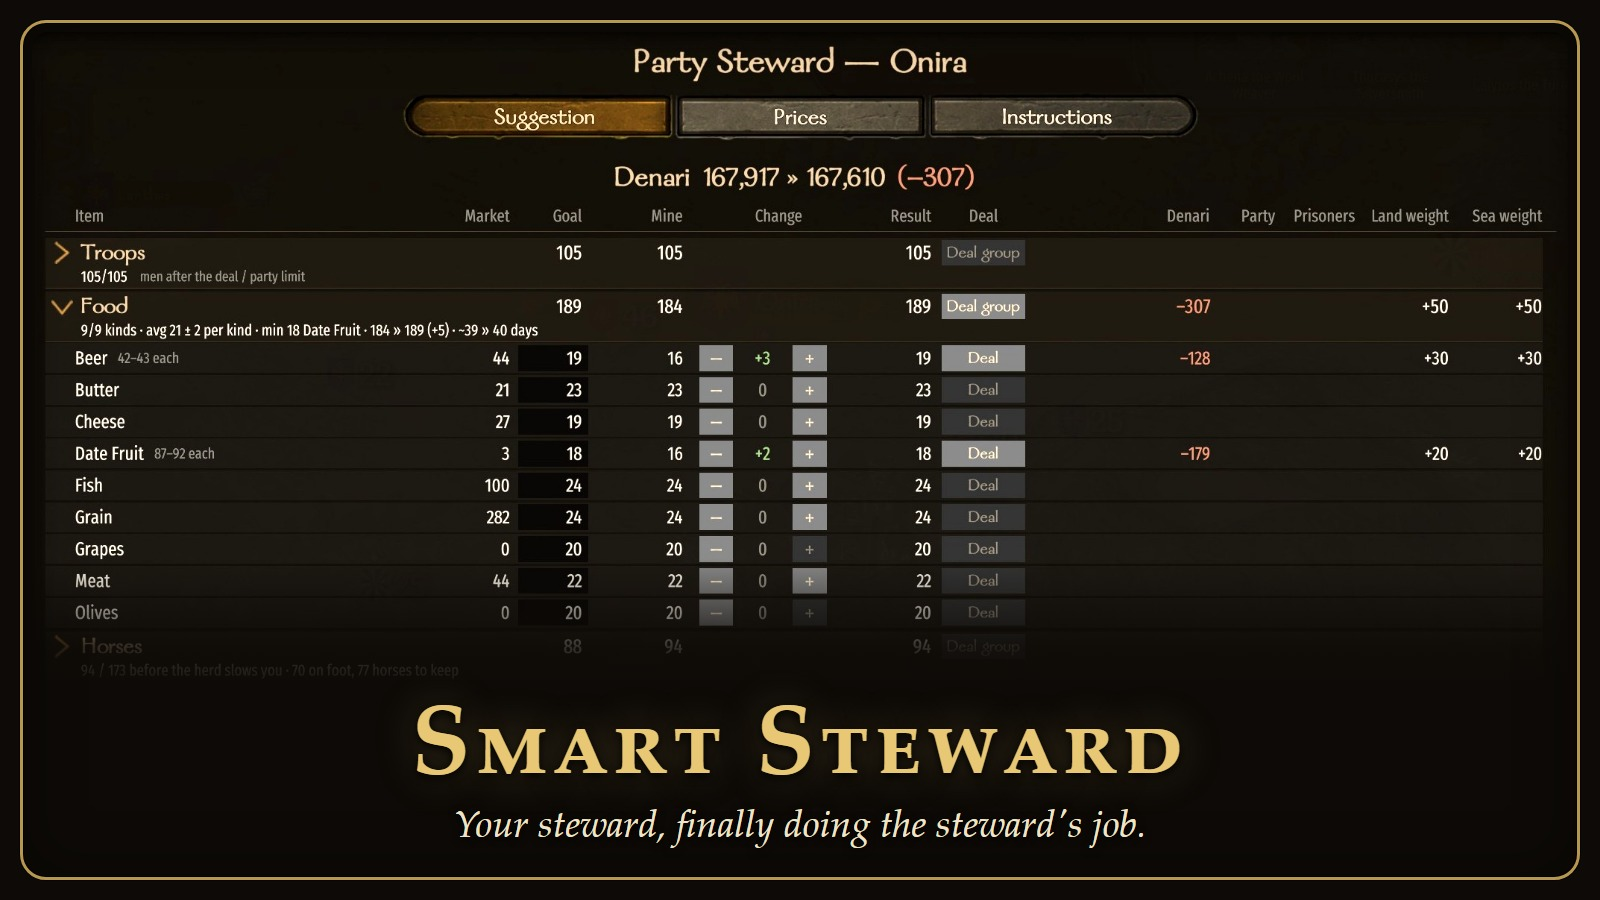
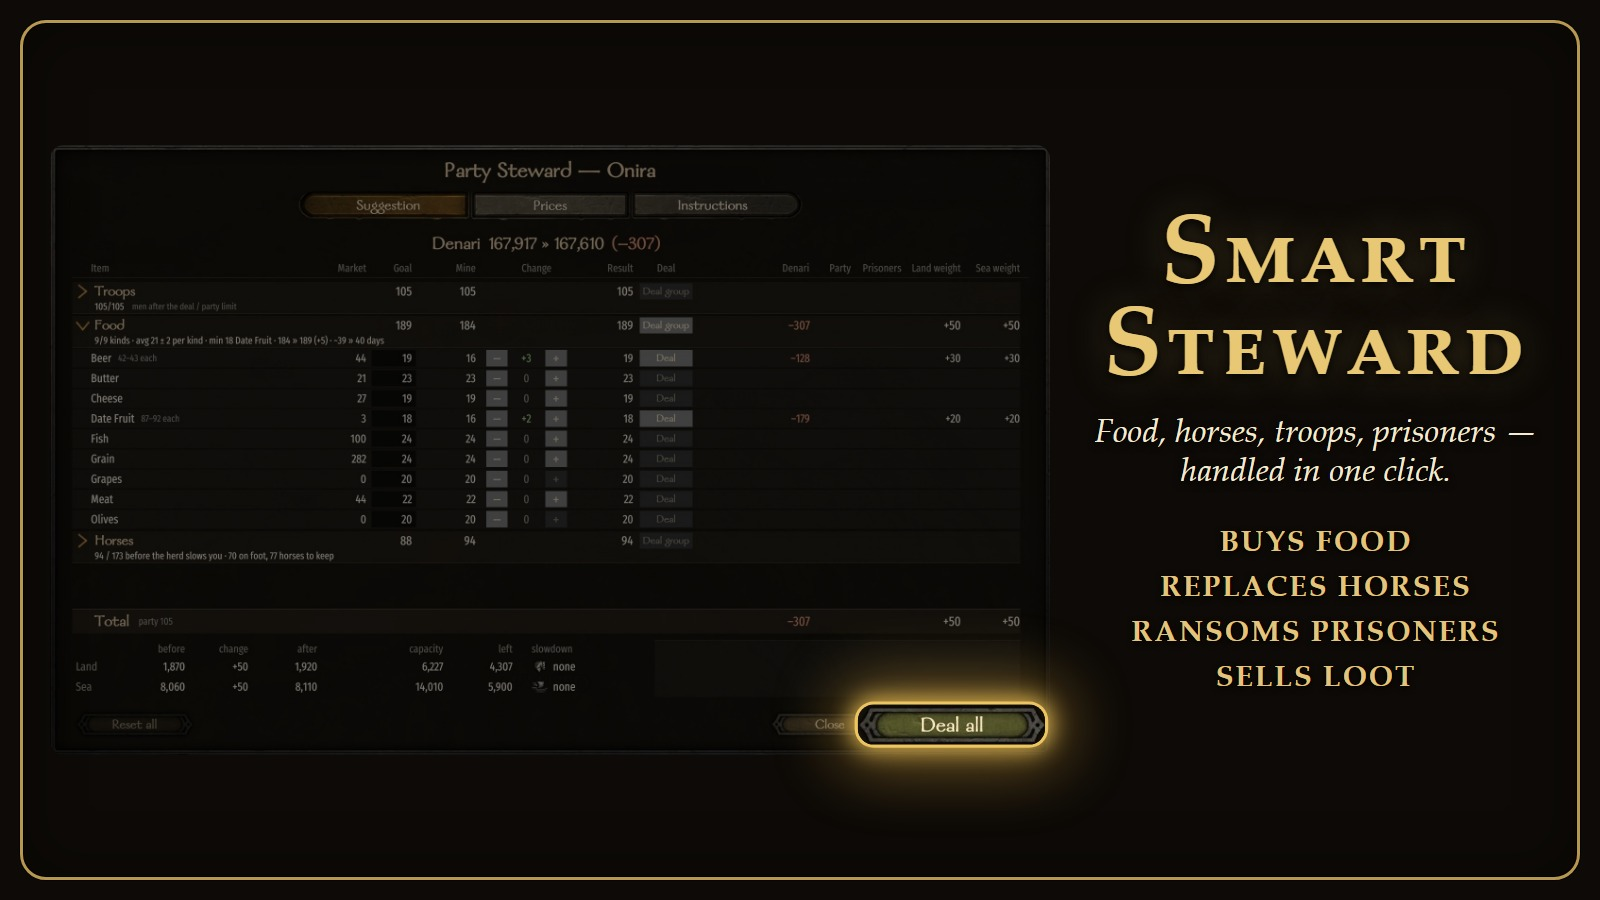
Release images and first lines say the steward AUTOMATES the chores
Thumbnail + cover: the whole real window dimmed, its real Deal all button undimmed
in a gold glow, tagline "Food, horses, troops, prisoners - handled in one click.",
verbs strip BUYS FOOD / REPLACES HORSES / RANSOMS PRISONERS / SELLS LOOT.
make_thumbnail.py --variant v2 adds a before -> after line (example figures).
README, Steam description (7,238 bytes) and WorkshopCreate open with
"Automates your party's logistics...".

diff --git a/tools/preview_thumbnail.html b/tools/preview_thumbnail.html
@@ -1,10 +1,11 @@
 <!DOCTYPE html>
 <!--
-  The Steam Workshop preview (1024 x 1024), in the house style of the sibling mods (TrainingBattles, Better Skirmisher
-  Separation): gold frame, Palatino small caps title over a dark fade, one tagline. The art is the REAL Party Steward
-  window (Screenshots\01_suggestion_food.jpg, cropped by the script to title, tabs, Denari and the Food rows).
-  Rendered by:  python tools\make_thumbnail.py      (writes Screenshots\preview_thumbnail.jpg, under Steam's 1 MB)
-  ART_IMG is replaced by the script with the cropped panel's file URI.
+  The Steam Workshop preview (1024 x 1024), in the house style of the sibling mods (gold frame, Palatino small caps
+  title over a dark fade). The art is the WHOLE real Party Steward window (Screenshots\01_suggestion_food.jpg), dimmed
+  so the words carry the message; its real "Deal all" button is shown again undimmed, a little larger, in a gold glow
+  (the .deal box = the button's own pixels, placed by the script) so the eye lands on "one click".
+  Rendered by:  python tools\make_thumbnail.py [--variant v2]   (v2 adds the .proof before -> after line)
+  The script replaces ART_IMG (the art's file URI), VARIANT (v1/v2) and the DEAL_* pixel values.
 -->
 <html>
 <head>
@@ -17,42 +18,54 @@
     font-family: 'Palatino Linotype', 'Book Antiqua', Georgia, serif;
   }
   .art {
-    position: absolute; left: 34px; top: 34px; width: 956px; height: 618px; border-radius: 16px 16px 0 0;
-    background: url('ART_IMG') center top / 956px 618px no-repeat;
-    filter: brightness(1.12) contrast(1.06);
+    position: absolute; left: 34px; top: 40px; width: 956px; height: 583px; border-radius: 16px;
+    background: url('ART_IMG') 0 0 / 956px 583px no-repeat;
+    filter: brightness(0.5) saturate(0.85);
   }
   .shade {
     position: absolute; inset: 0;
     background:
-      radial-gradient(ellipse 120% 90% at 50% 30%, rgba(0,0,0,0) 50%, rgba(13,10,7,0.5) 85%, rgba(13,10,7,0.85) 100%),
-      linear-gradient(to bottom, rgba(0,0,0,0) 0%, rgba(0,0,0,0) 49%, rgba(13,10,7,0.8) 53%, rgba(13,10,7,1) 56%);
+      radial-gradient(ellipse 120% 90% at 50% 30%, rgba(0,0,0,0) 50%, rgba(13,10,7,0.45) 85%, rgba(13,10,7,0.8) 100%),
+      linear-gradient(to bottom, rgba(0,0,0,0) 0%, rgba(0,0,0,0) 54%, rgba(13,10,7,0.7) 60%, rgba(13,10,7,1) 64%);
+  }
+  .deal {
+    position: absolute; left: DEAL_LEFTpx; top: DEAL_TOPpx; width: DEAL_Wpx; height: DEAL_Hpx;
+    background: url('ART_IMG') -DEAL_BXpx -DEAL_BYpx / 956px 583px no-repeat;
+    transform: scale(1.7); transform-origin: 70% 50%; border-radius: 10px;
+    box-shadow: 0 0 0 2px rgba(240, 200, 100, 0.95), 0 0 14px 4px rgba(240, 196, 90, 0.85), 0 0 40px 14px rgba(232, 180, 70, 0.45);
   }
   .frame {
     position: absolute; inset: 22px;
     border: 3px solid rgba(214, 178, 94, 0.85); border-radius: 26px;
     box-shadow: 0 0 0 1px rgba(0,0,0,0.6), inset 0 0 0 1px rgba(0,0,0,0.6), inset 0 0 60px rgba(0,0,0,0.35);
   }
-  .titleblock { position: absolute; left: 0; right: 0; bottom: 64px; text-align: center; }
-  .ornament { color: #d6b25e; font-size: 26px; letter-spacing: 14px; text-shadow: 0 2px 6px rgba(0,0,0,0.9); margin-bottom: 6px; }
+  .titleblock { position: absolute; left: 40px; right: 40px; bottom: 58px; text-align: center; }
   h1 {
-    color: #e8c874; font-size: 112px; font-weight: 600; letter-spacing: 5px; font-variant: small-caps; line-height: 1;
+    color: #e8c874; font-size: 104px; font-weight: 600; letter-spacing: 5px; font-variant: small-caps; line-height: 1;
     text-shadow: 0 3px 10px rgba(0,0,0,0.95), 0 0 45px rgba(232, 200, 116, 0.28);
   }
-  .tagline { margin-top: 16px; color: #f0e4c8; font-size: 40px; font-style: italic; text-shadow: 0 2px 8px rgba(0,0,0,0.95); }
-  .features { margin-top: 18px; color: #cdb27a; font-size: 28px; font-variant: small-caps; letter-spacing: 2px; text-shadow: 0 2px 6px rgba(0,0,0,0.95); }
-  .features .dot { color: #8a7448; padding: 0 9px; }
+  .tagline { margin-top: 14px; color: #f4ead2; font-size: 40px; font-style: italic; line-height: 1.15; text-shadow: 0 2px 8px rgba(0,0,0,0.95); }
+  .verbs { margin-top: 20px; color: #e2c47e; font-size: 34px; font-weight: 600; letter-spacing: 2px; line-height: 1.3; text-shadow: 0 2px 6px rgba(0,0,0,0.95); }
+  .verbs .dot { color: #8a7448; padding: 0 12px; }
+  .proof { display: none; margin-top: 16px; color: #cfe0a8; font-size: 30px; line-height: 1.2; text-shadow: 0 2px 6px rgba(0,0,0,0.95); }
+  .proof .arrow { color: #e8c874; padding: 0 6px; }
+  .proof .dot { color: #8a7448; padding: 0 12px; }
+  .v2 .proof { display: block; }
+  .v2 .titleblock { bottom: 46px; }
+  .v2 h1 { font-size: 96px; }
 </style>
 </head>
-<body>
+<body class="VARIANT">
   <div class="canvas">
     <div class="art"></div>
     <div class="shade"></div>
+    <div class="deal"></div>
     <div class="frame"></div>
     <div class="titleblock">
-      <div class="ornament">✦ ✦ ✦</div>
       <h1>Smart Steward</h1>
-      <div class="tagline">Your steward, finally doing the steward's job.</div>
-      <div class="features">food <span class="dot">·</span> horses <span class="dot">·</span> troops <span class="dot">·</span> prisoners <span class="dot">·</span> loot</div>
+      <div class="tagline">Food, horses, troops, prisoners —<br>handled in one click.</div>
+      <div class="verbs">BUYS FOOD <span class="dot">·</span> REPLACES HORSES<br>RANSOMS PRISONERS <span class="dot">·</span> SELLS LOOT</div>
+      <div class="proof">5 days of food <span class="arrow">→</span> 40 days <span class="dot">·</span> 12 prisoners <span class="arrow">→</span> +3,400 denari</div>
     </div>
   </div>
 </body>

diff --git a/tools/cover.html b/tools/cover.html
@@ -1,9 +1,9 @@
 <!DOCTYPE html>
 <!--
-  The README cover (1600 x 900): the real Party Steward window on top (Screenshots\01_suggestion_food.jpg, cropped by
-  the script from the title down to the Horses line), then the title block in the thumbnail's style - gold frame,
-  Palatino small caps, one tagline. Rendered by:  python tools\make_thumbnail.py  (writes Screenshots\cover.jpg)
-  ART_IMG is replaced by the script with the cropped panel's file URI.
+  The README cover (1600 x 900): the WHOLE real Party Steward window on the left (Screenshots\01_suggestion_food.jpg),
+  dimmed, with its real "Deal all" button shown again undimmed in a gold glow; the words on the right in the
+  thumbnail's style (gold frame, Palatino small caps). Rendered by:  python tools\make_thumbnail.py [--variant v2]
+  The script replaces ART_IMG, VARIANT (v1/v2) and the DEAL_* pixel values.
 -->
 <html>
 <head>
@@ -16,38 +16,49 @@
     font-family: 'Palatino Linotype', 'Book Antiqua', Georgia, serif;
   }
   .art {
-    position: absolute; left: 32px; top: 32px; width: 1536px; height: 648px; border-radius: 16px 16px 0 0;
-    background: url('ART_IMG') center top / 1536px 648px no-repeat;
-    filter: brightness(1.1) contrast(1.05);
+    position: absolute; left: 50px; top: 145px; width: 1000px; height: 610px; border-radius: 14px;
+    background: url('ART_IMG') 0 0 / 1000px 610px no-repeat;
+    filter: brightness(0.5) saturate(0.85);
   }
   .shade {
     position: absolute; inset: 0;
-    background:
-      radial-gradient(ellipse 120% 100% at 50% 30%, rgba(0,0,0,0) 55%, rgba(13,10,7,0.5) 88%, rgba(13,10,7,0.8) 100%),
-      linear-gradient(to bottom, rgba(0,0,0,0) 0%, rgba(0,0,0,0) 62%, rgba(13,10,7,0.85) 72%, rgba(13,10,7,1) 78%);
+    background: radial-gradient(ellipse 110% 110% at 35% 50%, rgba(0,0,0,0) 55%, rgba(13,10,7,0.5) 85%, rgba(13,10,7,0.8) 100%);
+  }
+  .deal {
+    position: absolute; left: DEAL_LEFTpx; top: DEAL_TOPpx; width: DEAL_Wpx; height: DEAL_Hpx;
+    background: url('ART_IMG') -DEAL_BXpx -DEAL_BYpx / 1000px 610px no-repeat;
+    transform: scale(1.6); transform-origin: 70% 50%; border-radius: 10px;
+    box-shadow: 0 0 0 2px rgba(240, 200, 100, 0.95), 0 0 14px 4px rgba(240, 196, 90, 0.85), 0 0 40px 14px rgba(232, 180, 70, 0.45);
   }
   .frame {
     position: absolute; inset: 20px;
     border: 3px solid rgba(214, 178, 94, 0.85); border-radius: 26px;
     box-shadow: 0 0 0 1px rgba(0,0,0,0.6), inset 0 0 0 1px rgba(0,0,0,0.6), inset 0 0 60px rgba(0,0,0,0.35);
   }
-  .titleblock { position: absolute; left: 0; right: 0; bottom: 52px; text-align: center; }
+  .titleblock { position: absolute; left: 1072px; right: 40px; top: 0; bottom: 0; display: flex; flex-direction: column;
+                justify-content: center; text-align: center; }
   h1 {
-    color: #e8c874; font-size: 96px; font-weight: 600; letter-spacing: 5px; font-variant: small-caps; line-height: 1;
+    color: #e8c874; font-size: 96px; font-weight: 600; letter-spacing: 4px; font-variant: small-caps; line-height: 0.95;
     text-shadow: 0 3px 10px rgba(0,0,0,0.95), 0 0 45px rgba(232, 200, 116, 0.28);
   }
-  .tagline { margin-top: 12px; color: #f0e4c8; font-size: 38px; font-style: italic; text-shadow: 0 2px 8px rgba(0,0,0,0.95); }
-  .tagline .dot { color: #d6b25e; font-style: normal; padding: 0 14px; }
+  .tagline { margin-top: 26px; color: #f4ead2; font-size: 33px; font-style: italic; line-height: 1.2; text-shadow: 0 2px 8px rgba(0,0,0,0.95); }
+  .verbs { margin-top: 30px; color: #e2c47e; font-size: 29px; font-weight: 600; letter-spacing: 2px; line-height: 1.55; text-shadow: 0 2px 6px rgba(0,0,0,0.95); }
+  .proof { display: none; margin-top: 26px; color: #cfe0a8; font-size: 26px; line-height: 1.35; }
+  .proof .arrow { color: #e8c874; padding: 0 6px; }
+  .v2 .proof { display: block; }
 </style>
 </head>
-<body>
+<body class="VARIANT">
   <div class="canvas">
     <div class="art"></div>
     <div class="shade"></div>
+    <div class="deal"></div>
     <div class="frame"></div>
     <div class="titleblock">
-      <h1>Smart Steward</h1>
-      <div class="tagline">Your steward, finally doing the steward's job.</div>
+      <h1>Smart<br>Steward</h1>
+      <div class="tagline"><span style="white-space: nowrap">Food, horses, troops, prisoners —</span><br>handled in one click.</div>
+      <div class="verbs">BUYS FOOD<br>REPLACES HORSES<br>RANSOMS PRISONERS<br>SELLS LOOT</div>
+      <div class="proof">5 days of food <span class="arrow">→</span> 40 days<br>12 prisoners <span class="arrow">→</span> +3,400 denari</div>
     </div>
   </div>
 </body>

diff --git a/tools/make_thumbnail.py b/tools/make_thumbnail.py
@@ -1,14 +1,17 @@
 r"""Builds the Steam Workshop preview and the README cover from the real Party Steward window.
 
-    python tools\make_thumbnail.py            # both
+    python tools\make_thumbnail.py                  # both, v1 -> preview_thumbnail.jpg + cover.jpg
+    python tools\make_thumbnail.py --variant v2     # v1 + a before -> after line -> preview_thumbnail_v2.jpg + cover_v2.jpg
     python tools\make_thumbnail.py --only thumbnail
     python tools\make_thumbnail.py --only cover
 
-1. Crops Screenshots\01_suggestion_food.jpg (written by make_screenshots.py) to the part each image shows.
+1. Takes the WHOLE window from Screenshots\01_suggestion_food.jpg (written by make_screenshots.py); the HTML dims it and
+   shows its real "Deal all" button (DEAL_BOX) again undimmed, enlarged, in a gold glow - placed by this script.
+   The v2 numbers (5 days of food -> 40 days, 12 prisoners -> +3,400 denari) are EXAMPLE figures, not from a shot.
 2. Renders tools\preview_thumbnail.html (1024 x 1024) and tools\cover.html (1600 x 900) with headless Edge (or Chrome).
 3. Saves Screenshots\preview_thumbnail.jpg (the Workshop preview, square, under Steam's 1 MB cap) and
    Screenshots\cover.jpg (the README image), stepping JPEG quality down until each is under 1 MB.
-Style = the sibling mods' thumbnails: gold frame, Palatino small caps title over a dark fade, one tagline.
+Style = the sibling mods' thumbnails: gold frame, Palatino small caps title over a dark fade, one tagline, the verbs strip.
 Work files (cropped panel, page, PNG) go to %TEMP%\smart_steward_images. Needs Pillow and Edge or Chrome.
 """
 from __future__ import annotations
@@ -34,23 +37,32 @@ BROWSERS = [
     r"C:\Program Files\Google\Chrome\Application\chrome.exe",
 ]
 
-# name: template, output, page size, crop box in SOURCE pixels (same aspect as the HTML's .art)
+# name: template, output, page size, the .art box in the page (left, top, width, height - keep in sync with the HTML)
 IMAGES = {
-    "thumbnail": ("preview_thumbnail.html", "preview_thumbnail.jpg", (1024, 1024),
-                  (20, 14, 1630, 1055)),    # title, tabs, Denari, Troops, Food rows, Horses; the Denari column last
-    "cover": ("cover.html", "cover.jpg", (1600, 900),
-              (29, 14, 2089, 883)),         # the whole width, title down to the Horses line
+    "thumbnail": ("preview_thumbnail.html", "preview_thumbnail.jpg", (1024, 1024), (34, 40, 956, 583)),
+    "cover": ("cover.html", "cover.jpg", (1600, 900), (50, 145, 1000, 610)),
 }
+ART_BOX = (0, 0, 2118, 1292)        # the whole window
+DEAL_BOX = (1815, 1200, 2063, 1252)  # the "Deal all" button in SOURCE pixels (bottom right of the footer)
 
 
-def render(name: str, browser: str) -> None:
-    template, out_name, (w, h), box = IMAGES[name]
+def render(name: str, browser: str, variant: str) -> None:
+    template, out_name, (w, h), (ax, ay, aw, ah) = IMAGES[name]
+    if variant != "v1":
+        out_name = out_name.replace(".jpg", f"_{variant}.jpg")
     panel = WORK / f"{name}_art.png"
-    Image.open(SOURCE).convert("RGB").crop(box).save(panel)
-    page = WORK / f"{name}.html"
-    page.write_text((REPO / "tools" / template).read_text(encoding="utf-8").replace("ART_IMG", panel.as_uri()),
-                    encoding="utf-8")
-    png = WORK / f"{name}.png"
+    Image.open(SOURCE).convert("RGB").crop(ART_BOX).save(panel)
+    sx, sy = aw / (ART_BOX[2] - ART_BOX[0]), ah / (ART_BOX[3] - ART_BOX[1])
+    bx, by = (DEAL_BOX[0] - ART_BOX[0]) * sx, (DEAL_BOX[1] - ART_BOX[1]) * sy
+    values = {"DEAL_LEFT": ax + bx, "DEAL_TOP": ay + by, "DEAL_W": (DEAL_BOX[2] - DEAL_BOX[0]) * sx,
+              "DEAL_H": (DEAL_BOX[3] - DEAL_BOX[1]) * sy, "DEAL_BX": bx, "DEAL_BY": by}
+    html = (REPO / "tools" / template).read_text(encoding="utf-8").replace("ART_IMG", panel.as_uri())
+    html = html.replace("VARIANT", variant)
+    for key, v in values.items():
+        html = html.replace(key + "px", f"{v:.1f}px")
+    page = WORK / f"{name}_{variant}.html"
+    page.write_text(html, encoding="utf-8")
+    png = WORK / f"{name}_{variant}.png"
     png.unlink(missing_ok=True)
     subprocess.run([browser, "--headless=new", "--disable-gpu", "--hide-scrollbars", "--force-device-scale-factor=1",
                     "--allow-file-access-from-files", f"--user-data-dir={WORK / 'profile'}",
@@ -71,6 +83,7 @@ def render(name: str, browser: str) -> None:
 def main() -> int:
     ap = argparse.ArgumentParser(description=__doc__, formatter_class=argparse.RawDescriptionHelpFormatter)
     ap.add_argument("--only", choices=sorted(IMAGES))
+    ap.add_argument("--variant", choices=["v1", "v2"], default="v1")
     args = ap.parse_args()
     if not SOURCE.exists():
         sys.exit(f"{SOURCE} missing - run tools\\make_screenshots.py first")
@@ -79,7 +92,7 @@ def main() -> int:
         sys.exit("Edge or Chrome not found.")
     WORK.mkdir(parents=True, exist_ok=True)
     for name in ([args.only] if args.only else IMAGES):
-        render(name, browser)
+        render(name, browser, args.variant)
     return 0
 
 

diff --git a/README.md b/README.md
@@ -1,6 +1,8 @@
 # Smart Steward
 
-![The Party Steward window in Onira: food rows with the steward's suggestions, then Deal all](Screenshots/cover.jpg)
+![Smart Steward: the Party Steward window, its Deal all button ringed in gold - food, horses, troops, prisoners handled in one click](Screenshots/cover.jpg)
+
+**Automates your party's logistics. Ride into a town and the steward works out what you need — food, horses, troops, prisoners, loot — and does it all with one click (or by itself, if you let it).**
 
 A mod for Mount & Blade II: Bannerlord.
 
